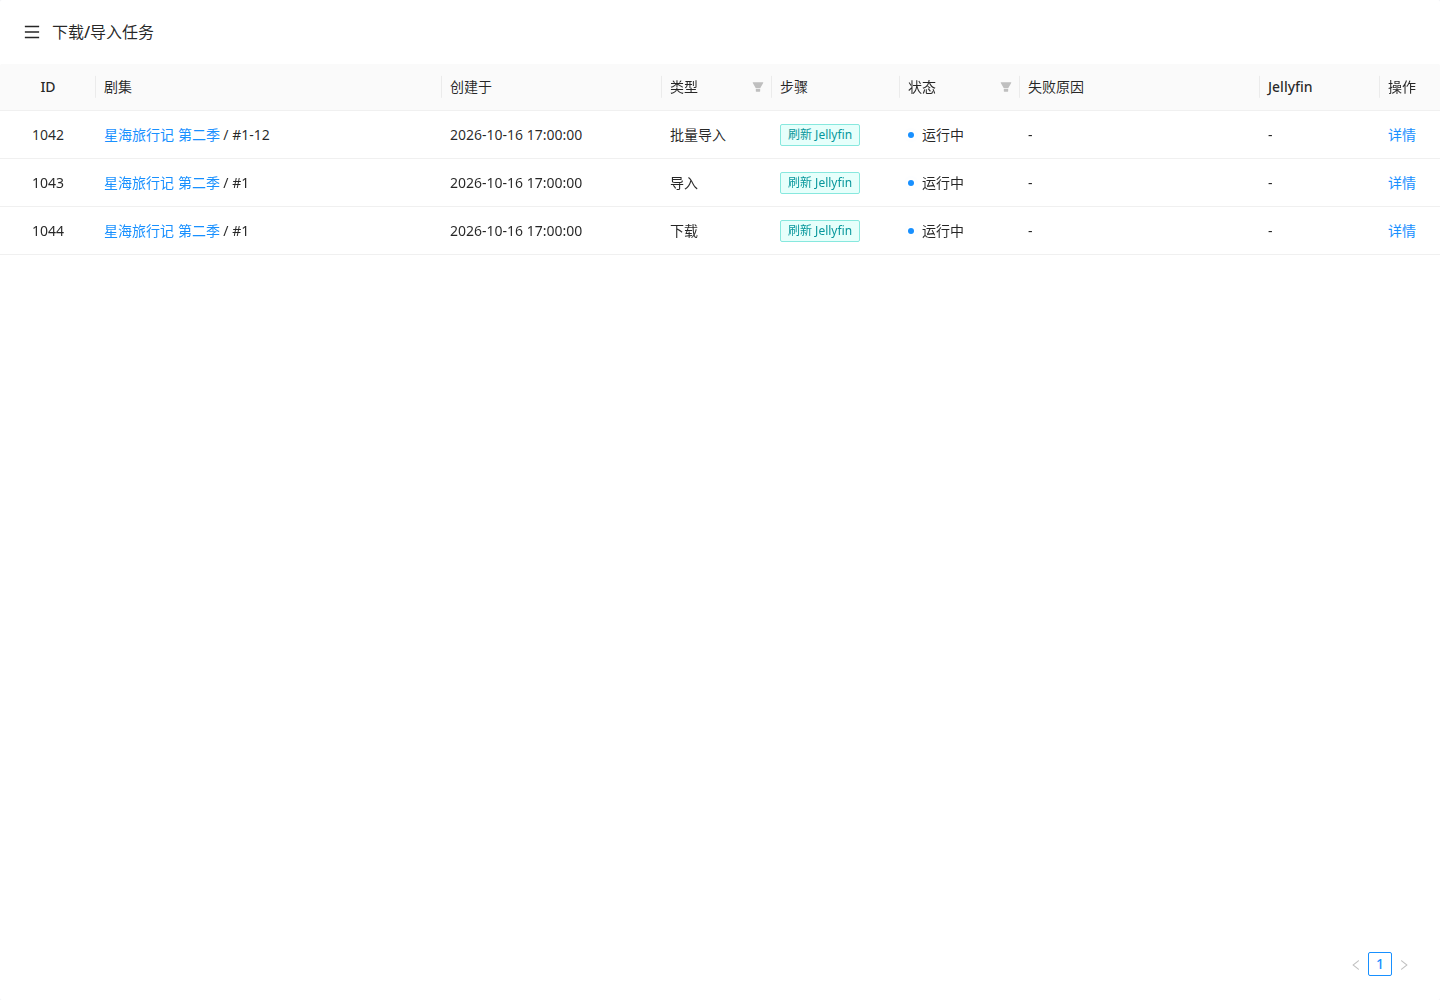
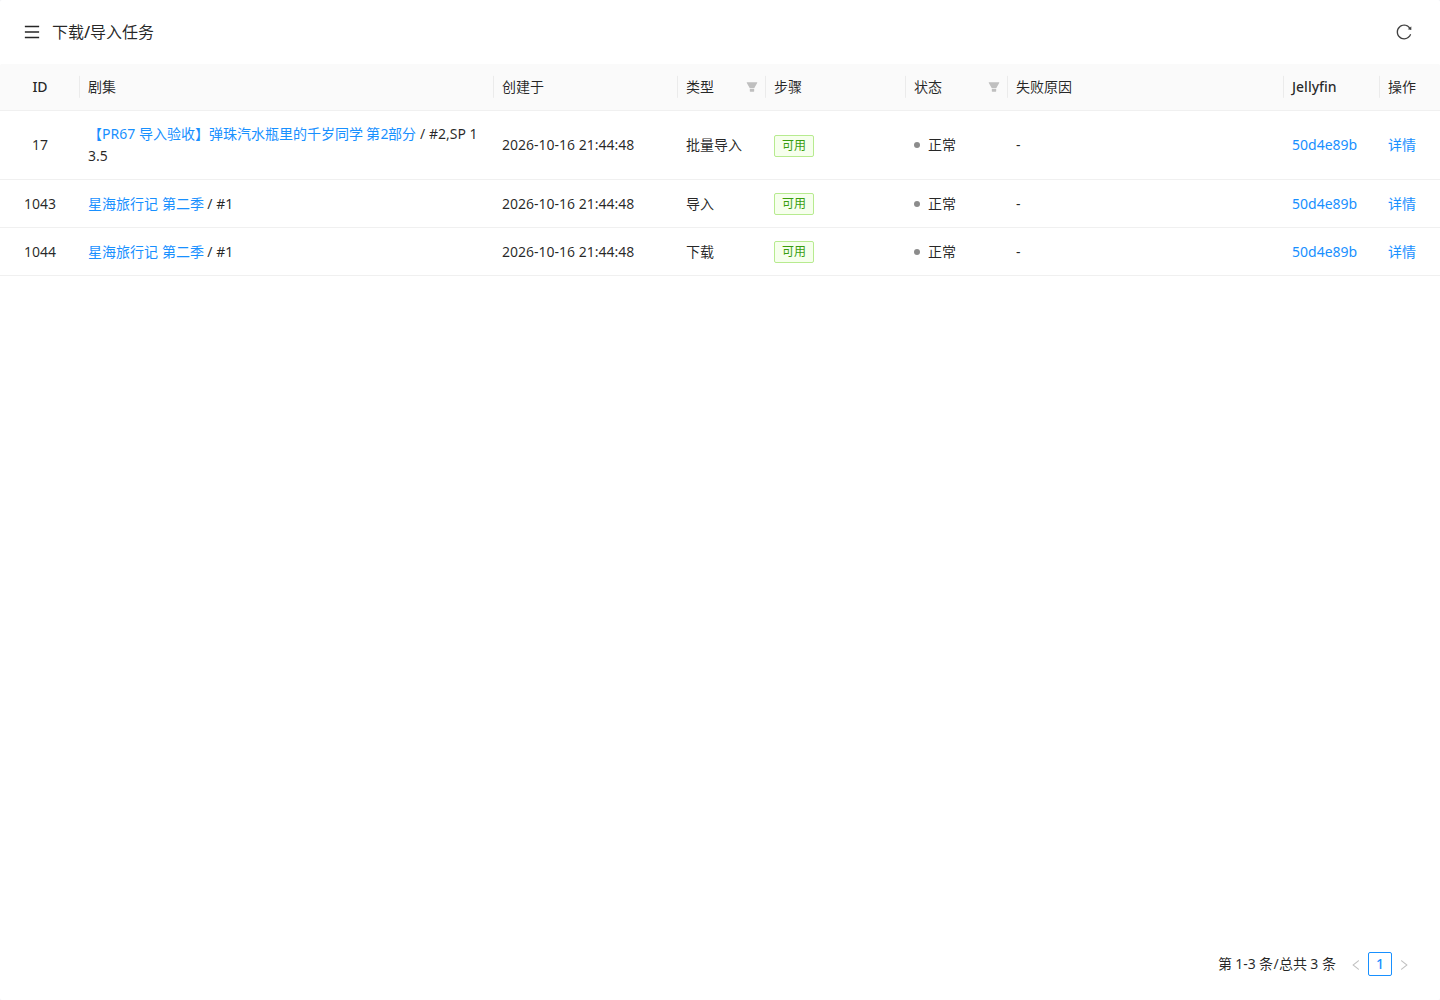
fix(admin): 修复任务列表溢出并按比例分配列宽

diff --git a/apps/admin/src/pages/jobs/index.tsx b/apps/admin/src/pages/jobs/index.tsx
@@ -37,11 +37,31 @@ import { Alert, Typography } from 'antd';
 import { useMemo, useRef, useState } from 'react';
 import { Link } from 'umi';
 import { handleError } from '@/utils/error';
+import { useSize } from 'ahooks';
+
+// 固定内容宽度之外留 16px 余量，另计 middle 表格左右各 8px 的 padding。
+const fixedWidths = {
+  id: 48 + 16 + 16,
+  createdAt: 152 + 16 + 16,
+  type: 56 + 16 + 16,
+  step: 108 + 16 + 16,
+  status: 70 + 16 + 16,
+  jellyfin: 64 + 16 + 16,
+  actions: 28 + 16 + 16,
+};
+const fixedWidth = Object.values(fixedWidths).reduce(
+  (sum, width) => sum + width,
+  0,
+);
+// 剩余空间按 3:2 分配，横向滚动保证剧集至少 240px、失败原因至少 160px。
+const minimumTableWidth = fixedWidth + 240 + 160;
 
 function useColumns({
   openTaskDetails,
+  tableWidth,
 }: {
   openTaskDetails: ReturnType<typeof useTaskDetailsDialog>[2];
+  tableWidth: number;
 }) {
   return useMemo(
     (): ProColumns<ListTasksFieldsFragment>[] => [
@@ -49,12 +69,13 @@ function useColumns({
         title: 'ID',
         dataIndex: 'id',
         align: 'center',
-        width: 96,
+        width: fixedWidths.id,
         className: tableStyles.compactCell,
       },
       {
         title: '剧集',
         key: 'episode',
+        width: (tableWidth - fixedWidth) * 0.6,
         render: (_, r) => {
           const episode = r.episodeByEpisodeId;
           if (!episode) {
@@ -65,7 +86,7 @@ function useColumns({
             return '-';
           }
           return (
-            <div>
+            <div className={styles.episode}>
               <Link to={`/season/${season.id}`}>{season.title}</Link>
               &nbsp;/&nbsp;
               {r.type === TaskType.BatchImport
@@ -79,14 +100,14 @@ function useColumns({
         title: '创建于',
         dataIndex: 'createdAt',
         valueType: 'dateTime',
-        width: 220,
+        width: fixedWidths.createdAt,
       },
       {
         title: '类型',
         dataIndex: 'type',
         filters: true,
         valueEnum: TASK_TYPE_LABELS,
-        width: 110,
+        width: fixedWidths.type,
       },
       {
         title: '步骤',
@@ -105,20 +126,20 @@ function useColumns({
             />
           );
         },
-        width: 128,
+        width: fixedWidths.step,
       },
       {
         title: '状态',
         key: 'lifecycle',
         render: (_, row) => <TaskStatus task={row} variant="badge" />,
         valueEnum: TASK_STATES,
-        width: 120,
+        width: fixedWidths.status,
         filters: true,
       },
       {
         title: '失败原因',
         dataIndex: 'failedReason',
-        width: 240,
+        width: (tableWidth - fixedWidth) * 0.4,
         render: (_, row) =>
           row.failedReason ? (
             <Typography.Text
@@ -142,7 +163,7 @@ function useColumns({
       {
         title: 'Jellyfin',
         dataIndex: 'jellyfinEpisodeId',
-        width: 120,
+        width: fixedWidths.jellyfin,
         render: (_, r) =>
           r.jellyfinEpisodeId ? (
             <Typography.Link
@@ -168,12 +189,12 @@ function useColumns({
             详情
           </Typography.Link>,
         ],
-        width: 60,
+        width: fixedWidths.actions,
         className: tableStyles.compactCell,
         fixed: 'right',
       },
     ],
-    [openTaskDetails],
+    [openTaskDetails, tableWidth],
   );
 }
 
@@ -259,7 +280,12 @@ export function applyTaskStates(
 export default function JobsPage() {
   const client = useApolloClient();
   const [taskDetailsDialog, , openTaskDetails] = useTaskDetailsDialog();
-  const columns = useColumns({ openTaskDetails });
+  const tableRef = useRef<HTMLDivElement>(null);
+  const tableSize = useSize(tableRef);
+  const columns = useColumns({
+    openTaskDetails,
+    tableWidth: Math.max(minimumTableWidth, tableSize?.width ?? 0),
+  });
   const actionRef = useRef<ActionType>();
   const [rows, setRows] = useState<ListTasksFieldsFragment[]>([]);
   const [changed, setChanged] = useState(false);
@@ -298,8 +324,8 @@ export default function JobsPage() {
   });
 
   return (
-    <>
-      <PageTitle title="下载任务" />
+    <div ref={tableRef} style={{ minWidth: 0 }}>
+      <PageTitle title="下载/导入任务" />
       {changed && (
         <Alert
           type="info"
@@ -362,10 +388,10 @@ export default function JobsPage() {
         search={false}
         defaultSize="middle"
         scroll={{
-          x: 1276,
+          x: minimumTableWidth,
         }}
       />
       {taskDetailsDialog}
-    </>
+    </div>
   );
 }

diff --git a/apps/admin/src/pages/jobs/index.module.less b/apps/admin/src/pages/jobs/index.module.less
@@ -1,3 +1,9 @@
+.episode {
+  max-width: 100%;
+  white-space: normal;
+  overflow-wrap: anywhere;
+  word-break: break-all;
+}
 .step :global(.ant-tag) {
   width: fit-content;
   max-width: 100%;

diff --git a/docs/docs/import-tasks.md b/docs/docs/import-tasks.md
@@ -10,7 +10,7 @@
 
 取消唤醒所有等待项，并等待在途文件操作收敛；已经落地的文件和已经发布的关联保留。暂存文件和 Jellyfin 等待项按任务、关联区分，迟到结果不能写入新尝试。下载和导入共享剧集发布互斥，不覆盖其他任务的产物。导入完成不发送下载发布事件，不触发下载通知或 Lania 发布同步。
 
-批量详情通过「任务流程」「导入列表」页签切换，右侧显示自动刷新状态。导入列表用表格展示源文件和最终剧集映射，各字段可独立复制；路径显示相对目录，复制时保留完整路径。概览与页签内容分别滚动，页签栏作为分界，不额外添加分割线。导入表格贴齐弹窗两侧及页签栏，单元格左右留白与概览对齐，表头在列表滚动时固定顶部。确认导入弹窗最大宽度为 740px。
+批量详情通过「任务流程」「导入列表」页签切换，右侧显示自动刷新状态。导入列表用表格展示源文件和最终剧集映射，各字段可独立复制；路径显示相对目录，复制时保留完整路径。概览与页签内容分别滚动，页签栏作为分界，不额外添加分割线。导入表格贴齐弹窗两侧及页签栏，单元格左右留白与概览对齐，表头在列表滚动时固定顶部。确认导入弹窗最大宽度为 740px。任务列表的固定内容列预留 16px 余量并单独计入 padding，剧集与失败原因按 3:2 分配剩余空间，分别保留 240px、160px 的最小宽度；长剧集标题在单元格内换行。
 
 ## 自动偏移
 
@@ -58,7 +58,7 @@ LANI_LIFECYCLE_TEST_DATABASE_URL='postgresql://localhost/example_test' rushx tes
 
 迁移测试在事务内创建测试 schema 并回滚。API 集成测试覆盖真实数据库上的并发检查点、逐集产物、发布互斥和删除剧集后的保留行为。Jellyfin 和下载器使用可控替身验证取消及迟到响应，没有访问共享媒体服务。
 
-以下截图使用真实组件，覆盖桌面、390px 移动端、长路径及弹窗切换。批量详情及导入表格使用真实文件导入完成后的任务数据，种子选择使用实际资源记录；其余截图使用演示数据验证长路径与编号匹配。真实导入另外验证了源文件保留、硬链接一致、NFO 和 Jellyfin 剧集关联。
+以下截图使用真实组件，覆盖桌面、390px 移动端、长路径及弹窗切换。批量详情及导入表格使用真实文件导入完成后的任务数据，种子选择使用实际资源记录；同集任务截图包含真实单集导入、重复导入失败与显式构造的历史下载展示样本；下载样本不代表实际发起过下载。其余截图使用演示数据验证长路径与编号匹配。真实导入另外验证了源文件保留、硬链接一致、NFO 和 Jellyfin 剧集关联。
 
 | 页面     | 桌面                                           | 移动端                                        |
 | -------- | ---------------------------------------------- | --------------------------------------------- |
@@ -66,6 +66,7 @@ LANI_LIFECYCLE_TEST_DATABASE_URL='postgresql://localhost/example_test' rushx tes
 | 批量详情 | [截图](./images/import-tasks/batch-1440.png)   | [截图](./images/import-tasks/batch-390.png)   |
 | 导入表格 | [截图](./images/import-tasks/batch-list-1440.png) | [截图](./images/import-tasks/batch-list-390.png) |
 | 种子选择 | [截图](./images/import-tasks/torrent-1440.png) | [截图](./images/import-tasks/torrent-390.png) |
+| 同集任务 | [截图](./images/import-tasks/episode-mixed-1440.png) | [截图](./images/import-tasks/episode-mixed-390.png) |
 | 剧集详情 | [截图](./images/import-tasks/episode-1440.png) | [截图](./images/import-tasks/episode-390.png) |
 | 任务管理 | [截图](./images/import-tasks/jobs-1440.png)    | [截图](./images/import-tasks/jobs-390.png)    |
 | 文件选择 | [截图](./images/import-tasks/select-1440.png)  | [截图](./images/import-tasks/select-390.png)  |
